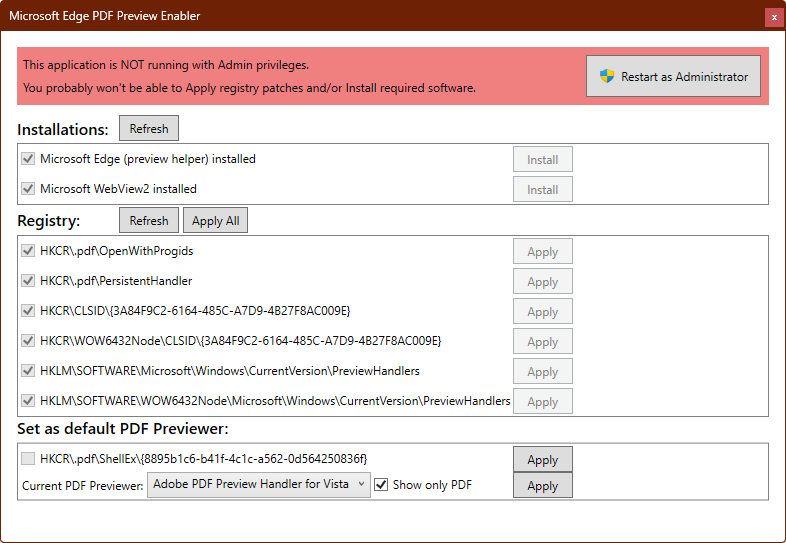
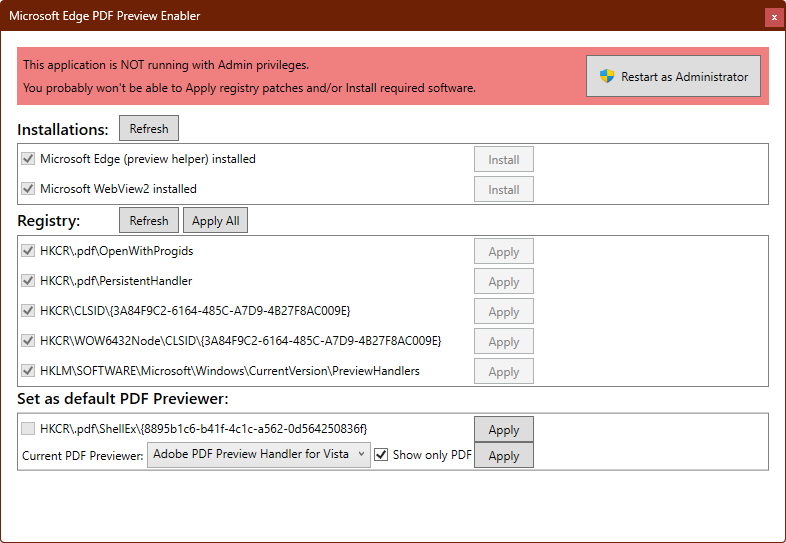
feat: removed X64 PreviewHandler list rule, added responsivnes for Apply All, center window start position

Changed region(s): [[0.0, 0.442, 0.9771, 0.9429], [0.6107, 0.2652, 0.7328, 0.3831]]

diff --git a/MainWindow.xaml b/MainWindow.xaml
@@ -8,7 +8,8 @@
         xmlns:resx="clr-namespace:Gh61.EdgePdfPreviewEnabler.Localization"
         mc:Ignorable="d"
         Title="Microsoft Edge PDF Preview Enabler" Height="550" Width="800"
-        WindowStyle="ToolWindow">
+        WindowStyle="ToolWindow"
+        WindowStartupLocation="CenterScreen">
     <Window.DataContext>
         <local:MainWindowViewModel />
     </Window.DataContext>

diff --git a/Commands/UICommandBase.cs b/Commands/UICommandBase.cs
@@ -1,5 +1,7 @@
 using System;
+using System.Windows;
 using System.Windows.Input;
+using System.Windows.Threading;
 
 namespace Gh61.EdgePdfPreviewEnabler.Commands
 {
@@ -38,5 +40,14 @@ namespace Gh61.EdgePdfPreviewEnabler.Commands
         {
             CanExecuteChanged?.Invoke(this, EventArgs.Empty);
         }
+
+        #region Helpers
+
+        protected static void DoEvents()
+        {
+            Application.Current.Dispatcher.Invoke(DispatcherPriority.Background, new Action(delegate { }));
+        }
+
+        #endregion
     }
 }

diff --git a/RegistryRules/PreviewHandlerX64ListRule.cs b/RegistryRules/PreviewHandlerX64ListRule.cs
@@ -11,8 +11,10 @@ namespace Gh61.EdgePdfPreviewEnabler.RegistryRules
 
         public static bool ShouldBeUsed()
         {
-            var wow6432Node = Registry.LocalMachine.OpenSubKey(@"SOFTWARE\WOW6432Node");
-            return wow6432Node != null;
+            // this registry key is only mirror of key in PreviewHandlerListRule
+            return false;
+            //var wow6432Node = Registry.LocalMachine.OpenSubKey(@"SOFTWARE\WOW6432Node");
+            //return wow6432Node != null;
         }
     }
 }

diff --git a/Commands/ApplyRegistryRuleCommand.cs b/Commands/ApplyRegistryRuleCommand.cs
@@ -27,7 +27,8 @@ namespace Gh61.EdgePdfPreviewEnabler.Commands
             try
             {
                 rule.Apply();
-                Thread.Sleep(100); // wait a little for registers to update and also for user
+                Thread.Sleep(100); // wait a little for registry to update and also for user experience
+                DoEvents();
             }
             catch (Exception e)
             {

diff --git a/Properties/AssemblyInfo.cs b/Properties/AssemblyInfo.cs
@@ -51,5 +51,5 @@ using System.Windows;
 // You can specify all the values or you can default the Build and Revision Numbers
 // by using the '*' as shown below:
 // [assembly: AssemblyVersion("1.0.*")]
-[assembly: AssemblyVersion("1.0.0.0")]
-[assembly: AssemblyFileVersion("1.0.0.0")]
+[assembly: AssemblyVersion("1.0.1.0")]
+[assembly: AssemblyFileVersion("1.0.1.0")]
